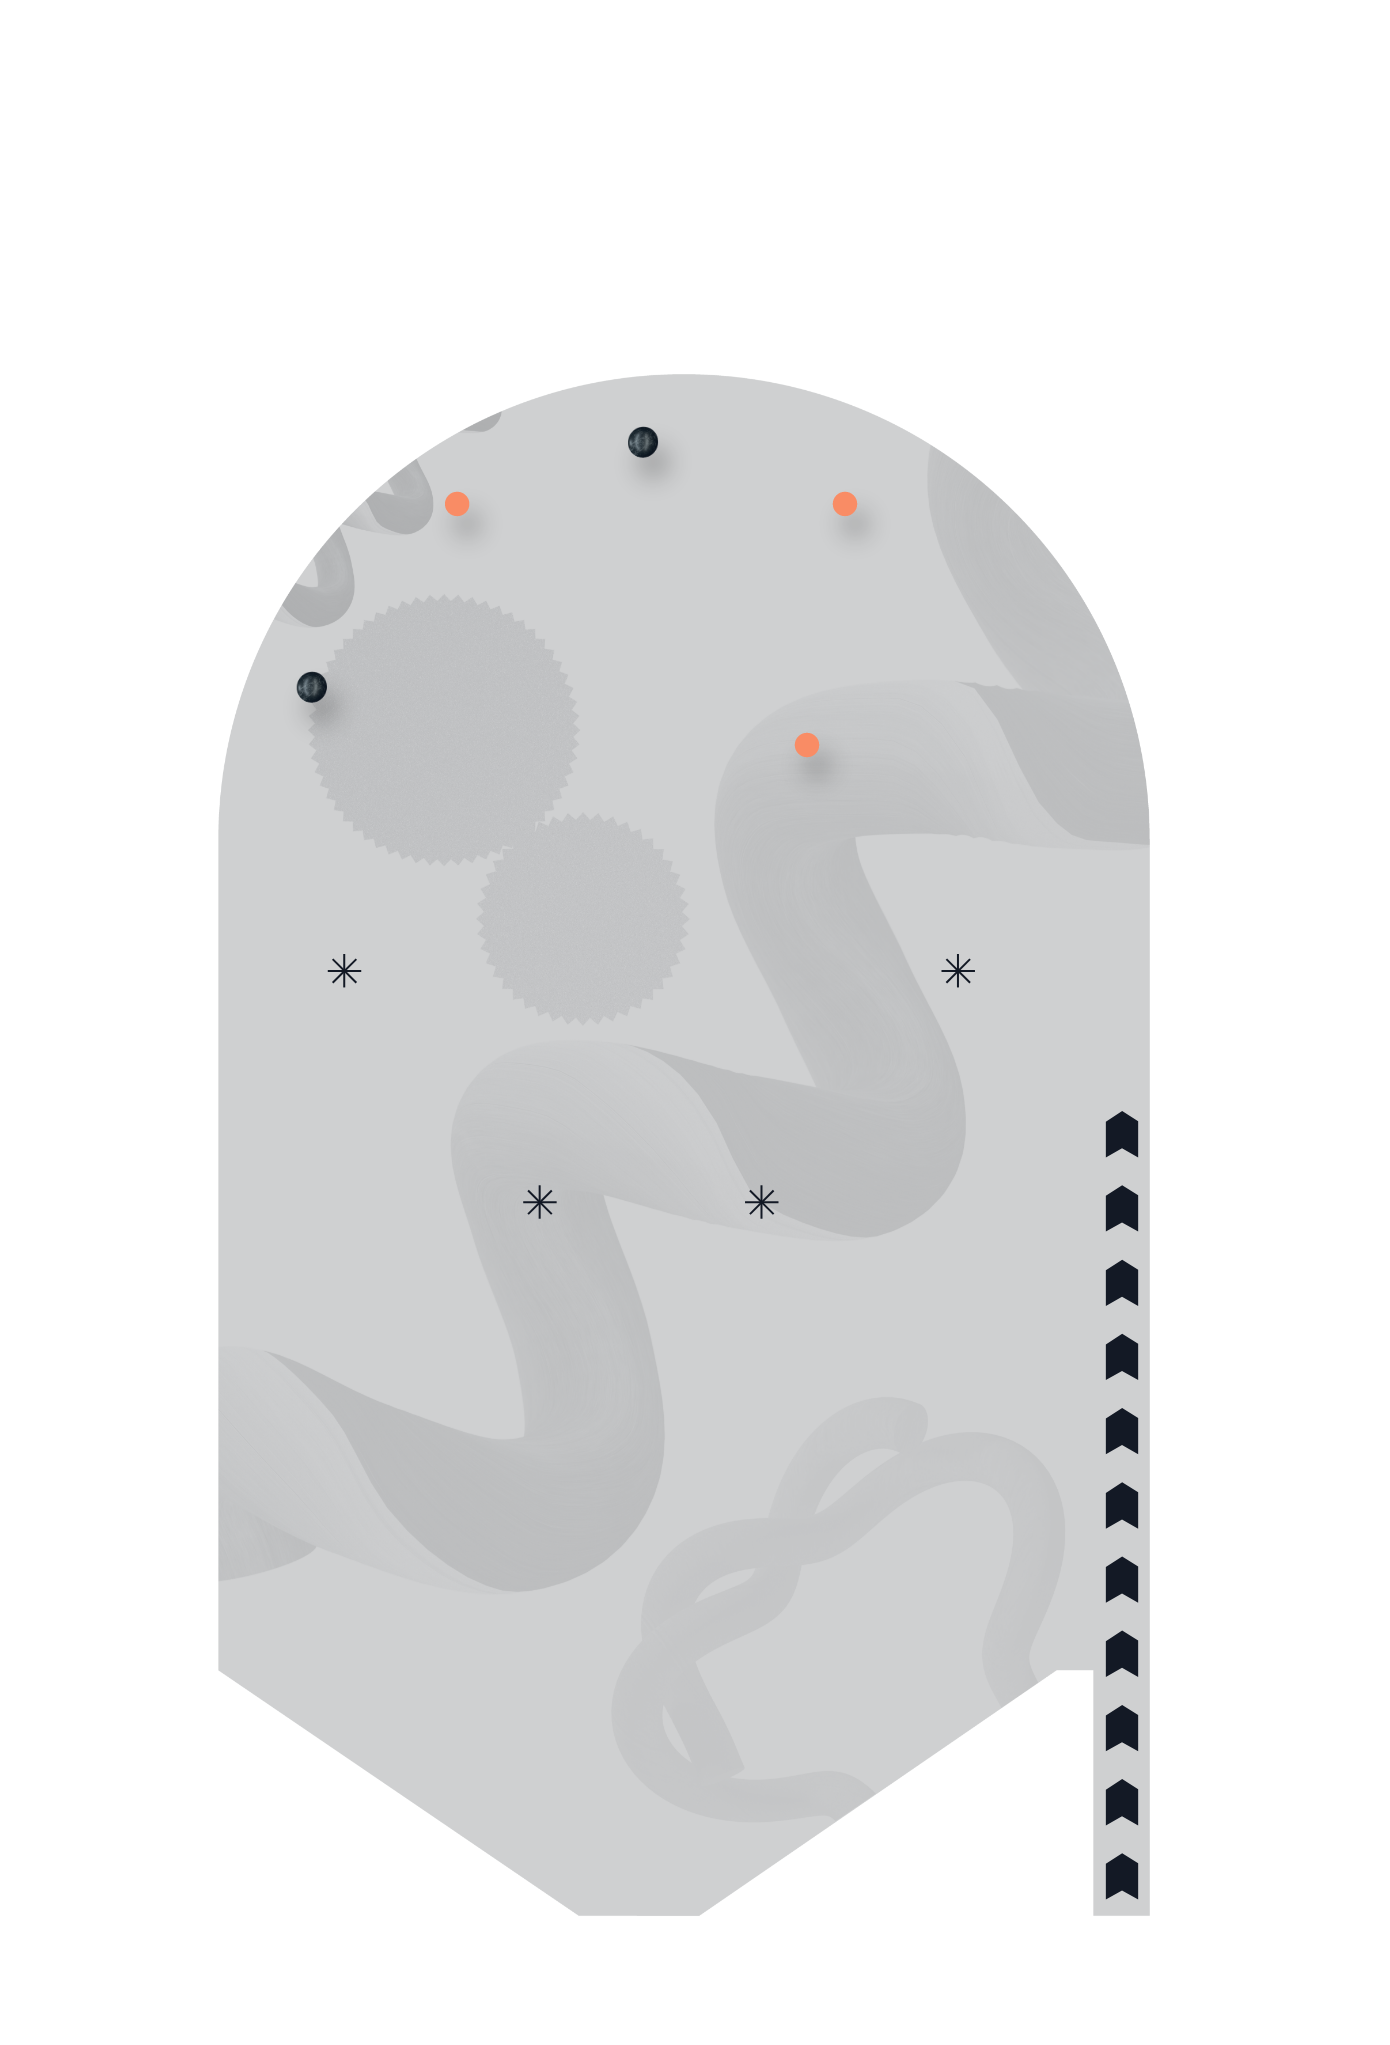
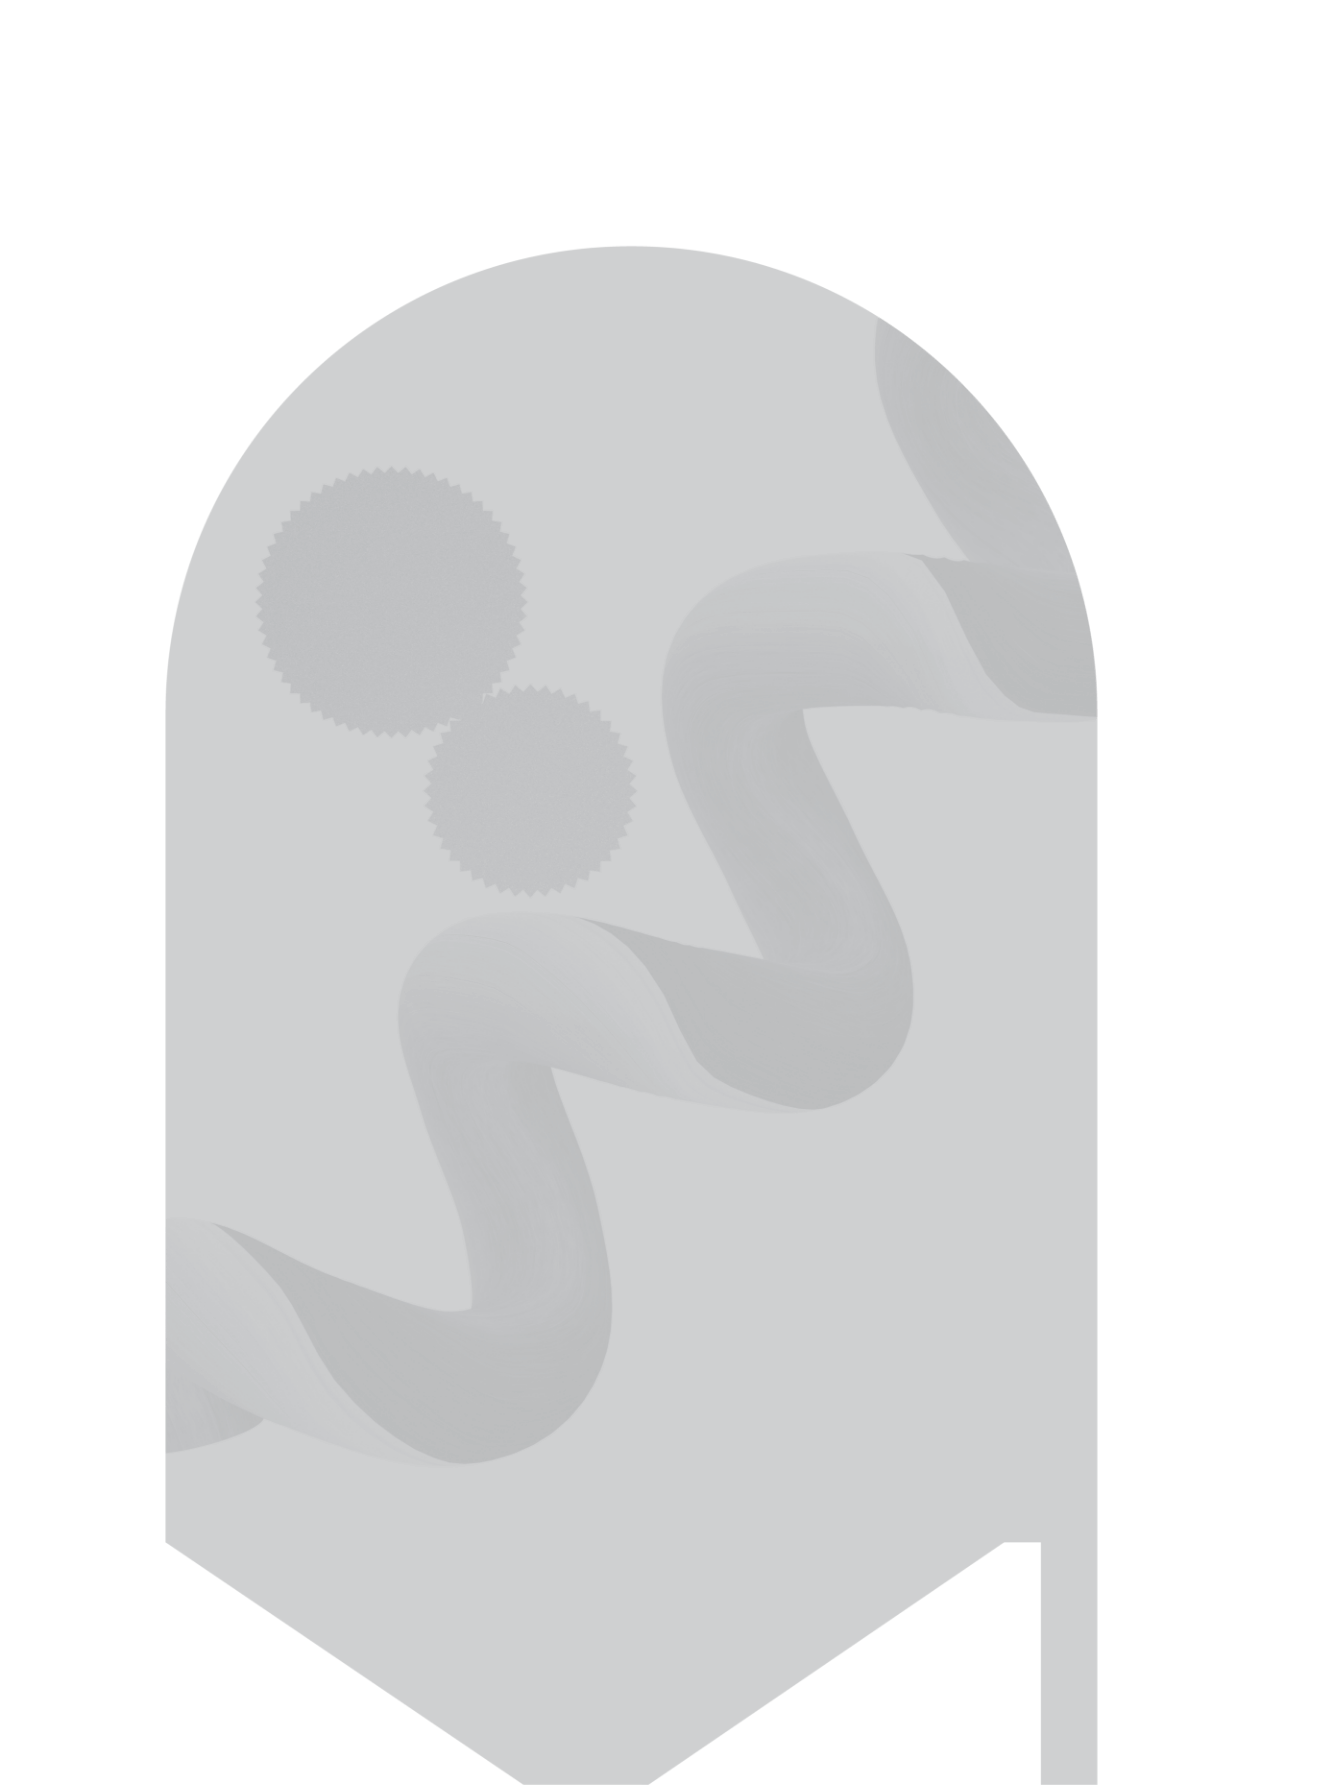
Taking lives

diff --git a/pages/game.vue b/pages/game.vue
@@ -1,5 +1,13 @@
 <template>
   <section class="scene">
+    <div class="images-wrapper">
+      <img class="image image--half-pipe" src="/img/half-pipe.png">
+      <img class="image image--worm-black" src="/img/worm-black.png">
+      <img class="image image--worm-black-second" src="/img/worm-black.png">
+      <img class="image image--curl" src="/img/curl.png">
+      <img class="image image--star" src="/img/star.png">
+      <img class="image image--marshmallow" src="/img/marshmallow.png">
+    </div>
     <div class="score current-score">
       score
       <span class="score--value">20</span>
@@ -9,7 +17,7 @@
       <span class="score--value">120</span>
     </div>
     <div class="lives">
-      <img class="life life--disabled" src="/img/life.png" alt="">
+      <img class="life" src="/img/life.png" alt="">
       <img class="life" src="/img/life.png" alt="">
       <img class="life" src="/img/life.png" alt="">
     </div>
@@ -54,7 +62,7 @@ export default {
   align-items: center;
   justify-content: center;
   background-repeat: no-repeat;
-  background-position: 50%, 45% 145%;
+  background-position: 50%, 35% -40%;
   background-image: url('/img/board.png'), url('/img/board-bg.png');
 }
 
@@ -120,6 +128,58 @@ export default {
       opacity: 0.8;
       filter: grayscale(100%);
     }
+  }
+}
+
+.image {
+  position: absolute;
+  max-width: none;
+  pointer-events: none;
+
+  &--curl {
+    height: 23.6vh;
+    top: 0%;
+    left: 50%;
+    transform: translate(-140%, 15%);
+    z-index: -1;
+  }
+
+  &--half-pipe {
+    height: 21.3vh;
+    top: 100%;
+    left: 50%;
+    z-index: -1;
+    transform: translate(-20%, -50%);
+  }
+
+  &--worm-black {
+    height: 25.6vh;
+    bottom: 0%;
+    left: 50%;
+    z-index: -1;
+    transform: translate(-110%, -20%) rotate(180deg);
+  }
+
+  &--worm-black-second {
+    height: 25.6vh;
+    bottom: 0%;
+    left: 50%;
+    z-index: -1;
+    transform: translate(-10%, -10%) rotate(5deg);
+  }
+
+  &--star {
+    height: 6.2vh;
+    top: 5%;
+    left: 50%;
+  }
+
+  &--marshmallow {
+    height: 12.2vh;
+    top: 10%;
+    left: 50%;
+    z-index: 2;
+    transform: translate(100%, 0%);
   }
 }
 </style>

diff --git a/assets/js/game.js b/assets/js/game.js
@@ -19,7 +19,7 @@ const loadGame = () => {
   let currentScore, highScore
   let engine, world, render, pinball
   let isPinballBlocked
-  let lives = 3
+  let lives = 2
 
   init()
   createStaticBodies()
@@ -87,11 +87,18 @@ const loadGame = () => {
   }
 
   function gameOver () {
-    console.log('game over')
+    console.log('GAME OVER')
+    window.location.href = '/score'
+  }
+
+  function takeLife () {
+    const livesElements = document.querySelectorAll('.lives .life')
+    lives--
+    livesElements[lives + 1].classList.add('life--disabled')
   }
 
   function manageLives () {
-    lives ? lives-- : gameOver()
+    lives ? takeLife() : gameOver()
   }
 
   function createEvents () {

diff --git a/assets/js/scripts/utils/createStaticBodies.js b/assets/js/scripts/utils/createStaticBodies.js
@@ -21,6 +21,8 @@ const createStaticBodies = () => {
   new Bound(540, 190, 1080, 5) // top
   new Bound(75, 360, 5, 500) // left
   new Bound(1005, 360, 5, 500) // right
+
+  const angledLine = new Rectangle(150, 1670, 200, 5, 2.4)
   /* eslint-enable */
 
   // top elements line
